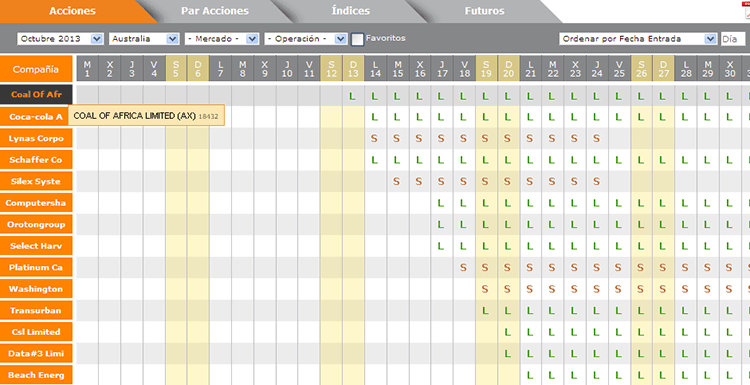
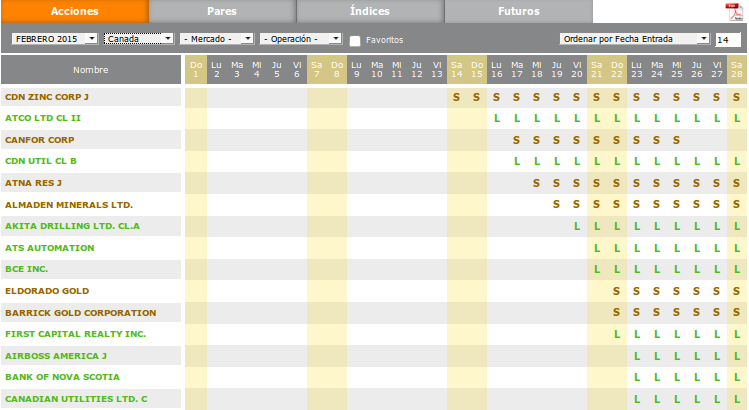
Changing Images and texts in Detailed Description page. Sections: Calendar

diff --git a/src/app/services/detailed_description/detailed_description.tpl.html b/src/app/services/detailed_description/detailed_description.tpl.html
@@ -1973,7 +1973,7 @@ Escenario b): Formar una nueva Cartera.
         Un inversor tiene una Cartera de 500,000 EUR en Petróleo y Gas Natural
         (recuerde que puede tener una Cartera de Commodities usando instrumentos como Fondos, ETF’s, o Futuros).
         El inversor observa en la tabla anterior que el 20 Febrero de 2014 ha sido históricamente un día
-        especialmente bajista, por lo cual decide cubrir su cartera durante 1 día, para ello hace la siguiente
+        especialmente bajista, por lo cual decide cubrir su cartera durante 1 día. Para ello hace la siguiente
         operación:
         <ul class="public-list-second-level list-left-first-level">
             <li>
@@ -1995,7 +1995,7 @@ Escenario b): Formar una nueva Cartera.
             </li>
             <li>
                 El día 20 Febrero hacia el final de la sesión puede deshacer la cobertura realizando las operaciones
-                contrarias, por ejemplo si usó la primera opción, deberá Comprar los 4 Futuros Marzo sobre el índice GSCI.
+                contrarias. Por ejemplo si usó la primera opción, deberá Comprar los 4 Futuros Marzo sobre el índice GSCI.
             </li>
         </ul>
         <p>
@@ -2037,7 +2037,7 @@ Escenario b): Formar una nueva Cartera.
     Por definición el índice S&P 500 es un promedio, que significa que hay unos sectores con una
     rentabilidad superior al Índice y otros con rentabilidad inferior. En determinados periodos
     de forma recurrente año tras año, unos sectores son más –o menos- rentables que el Índice, por
-    lo cual en vez de negociar directamente el Índice S&P 500 se deberían rediseñar y optimizar las
+    lo cual, en vez de negociar directamente el Índice S&P 500, se deberían rediseñar y optimizar las
     operaciones de inversión o coberturas.
 </p>
 
@@ -2111,9 +2111,9 @@ Escenario b): Formar una nueva Cartera.
 
         <p class="detailed_description_img"><img src="assets/img/services/detailed_description/calendar1.png"></p>
 
-        <p>La primera línea del calendario indica una Compra de acciones de la compañía <strong>“Coal of Africa”</strong> que cotiza
-            en Australia –<strong>AX</strong>-y está planificada para el domingo 13 octubre 2013. Como es festivo, la entrada
-            u operación de Compra se trasladará al día laborable lunes 14. En sentido estricto se debería ejecutar
+        <p>La primera línea del calendario indica una Venta de acciones de la compañía <strong>“CDN ZINC”</strong> que cotiza
+            en Canadá –<strong>TC</strong>-y está planificada para el sábado 14 febrero 2015. Si fuese festivo, la entrada
+            u operación de Venta se trasladaría al día laborable lunes 16. En sentido estricto se debería ejecutar
             la operación hacia la hora de cierre del mercado 16:11 EST –Eastern Standard Time- New South Wales.</p>
 
     </div>
